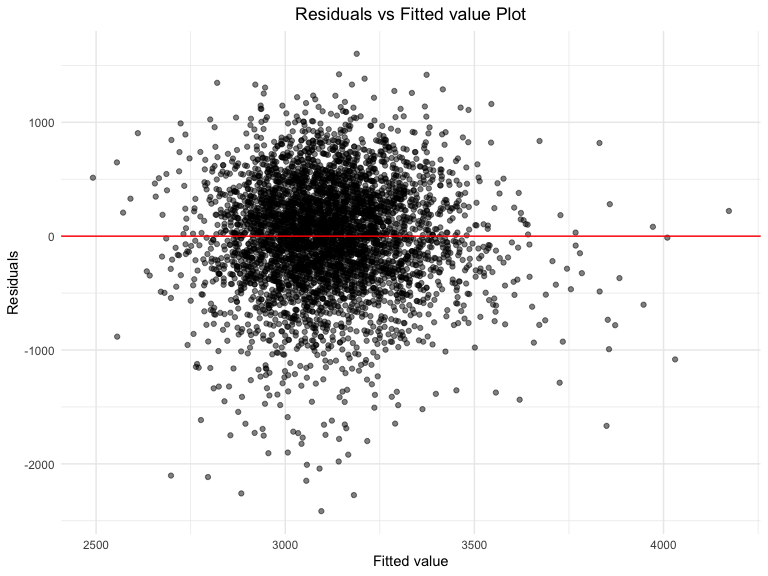
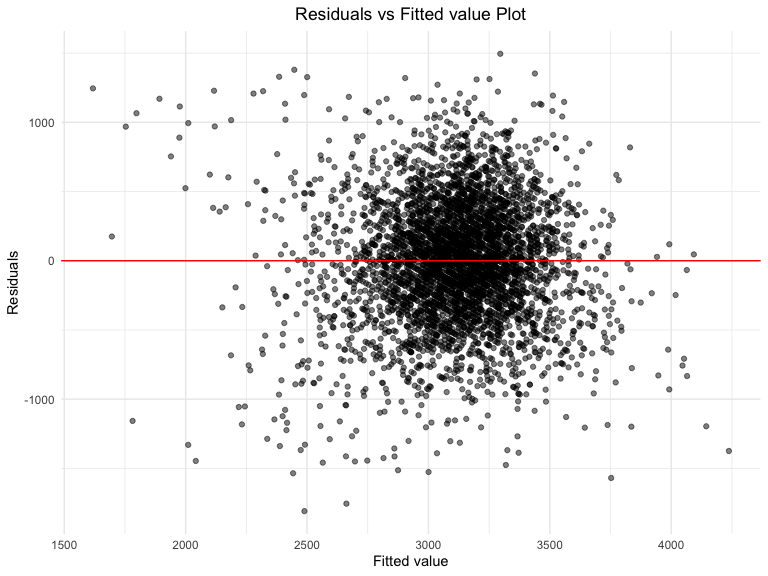
Modify q3

diff --git a/p8105_hw6_gl2761.md b/p8105_hw6_gl2761.md
@@ -258,17 +258,21 @@ birthweight_df = birthweight_df %>%
 ### Propose a regression model for birthweight.
 
 ``` r
-model_1 = lm(bwt ~ ppbmi + delwt, data = birthweight_df) 
+model_1 = lm(bwt ~ ppbmi + delwt + gaweeks + momage + smoken + wtgain, data = birthweight_df) 
 
 model_1 %>% broom::tidy()
 ```
 
-    ## # A tibble: 3 × 5
+    ## # A tibble: 7 × 5
     ##   term        estimate std.error statistic   p.value
     ##   <chr>          <dbl>     <dbl>     <dbl>     <dbl>
-    ## 1 (Intercept)   2396.     53.3        45.0 0        
-    ## 2 ppbmi          -38.0     3.32      -11.4 8.42e- 30
-    ## 3 delwt           10.6     0.476      22.2 3.11e-103
+    ## 1 (Intercept)   -39.6     97.1      -0.408 6.84e-  1
+    ## 2 ppbmi         -26.7      4.05     -6.59  5.04e- 11
+    ## 3 delwt           7.92     0.641    12.3   1.87e- 34
+    ## 4 gaweeks        58.6      2.16     27.1   7.00e-150
+    ## 5 momage         12.5      1.76      7.11  1.40e- 12
+    ## 6 smoken         -7.78     0.906    -8.59  1.21e- 17
+    ## 7 wtgain          1.92     0.912     2.11  3.52e-  2
 
 ``` r
 plot = birthweight_df %>% 
@@ -293,9 +297,12 @@ Describe modeling process:
 
 1.  Firstly, load and clean data;
 
-2.  Then I think “mother’s weight at delivery (pounds)” and “mother’s
-    pre-pregnancy BMI” my influence baby’s birth weight, so I use these
-    two variables as the predictors of the model;
+2.  Then I think “mother’s weight at delivery (pounds)”, ‘gestational
+    age in weeks’, ‘mother’s age at delivery’, ‘average number of
+    cigarettes smoked per day during pregnancy’, ‘mother’s weight gain
+    during pregnancy (pounds)’ and “mother’s pre-pregnancy BMI” may
+    influence baby’s birth weight, so I use these two variables as the
+    predictors of the model;
 
 3.  Then I drew a “Residuals vs Fitted value Plot”. From the plot,
     residual values are bounce around 0, which means they are evenly
